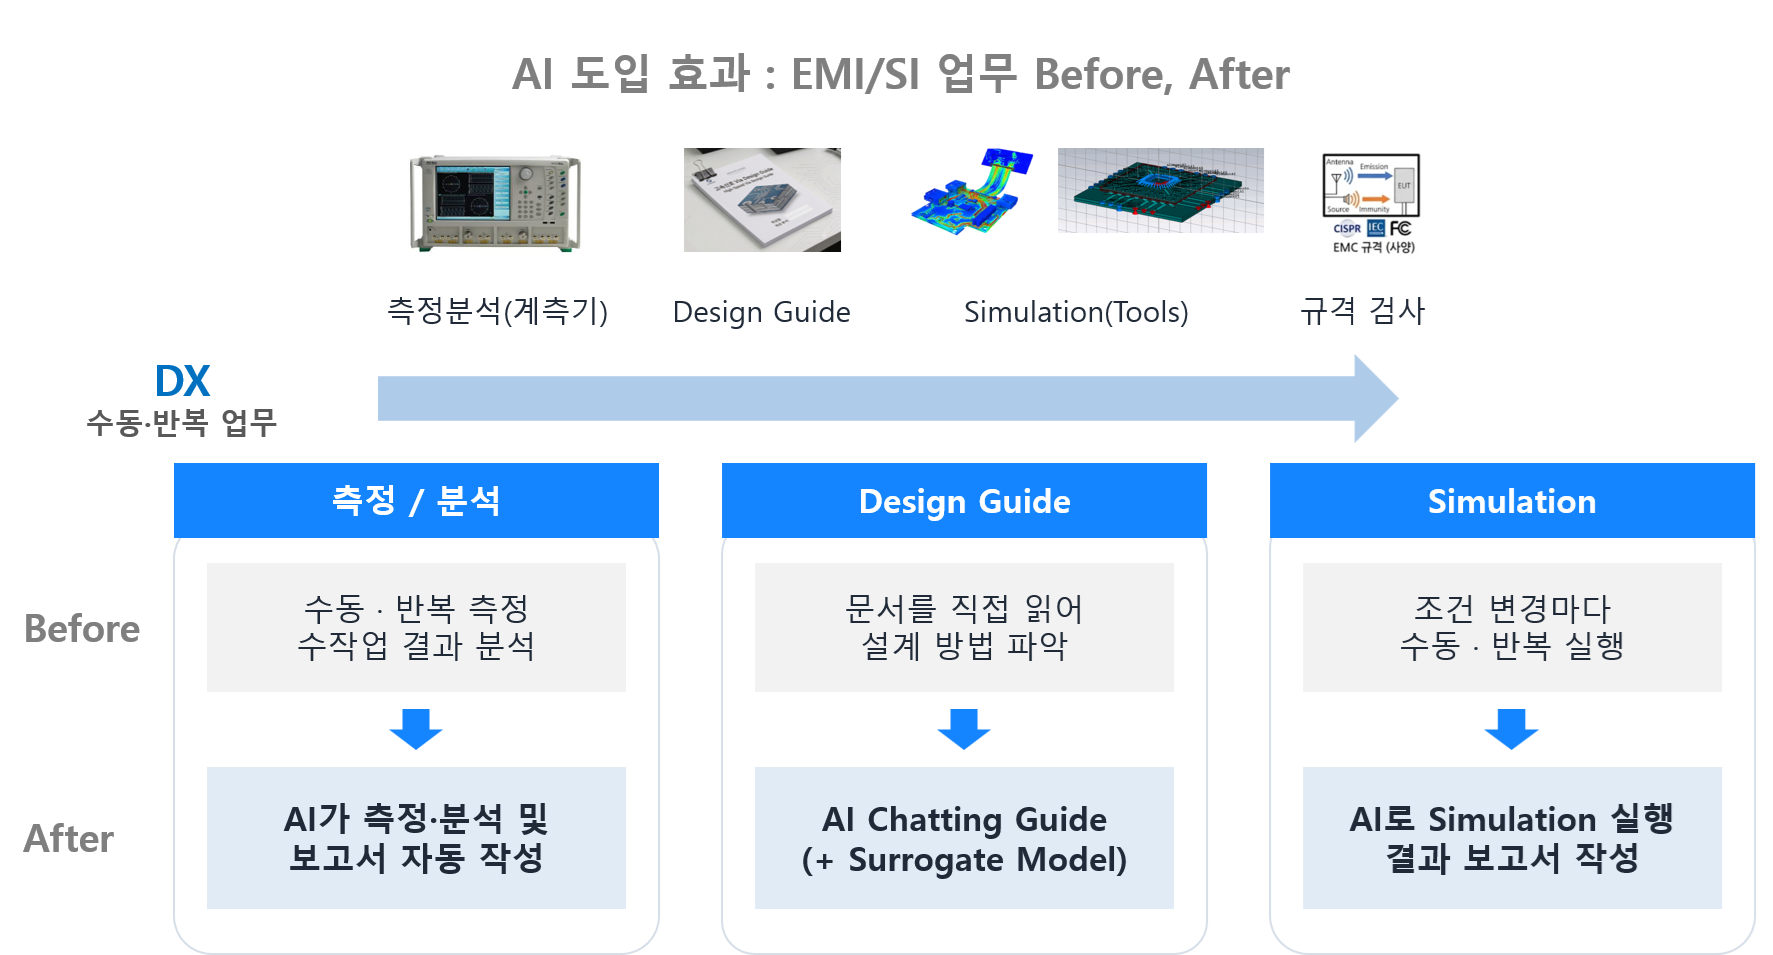
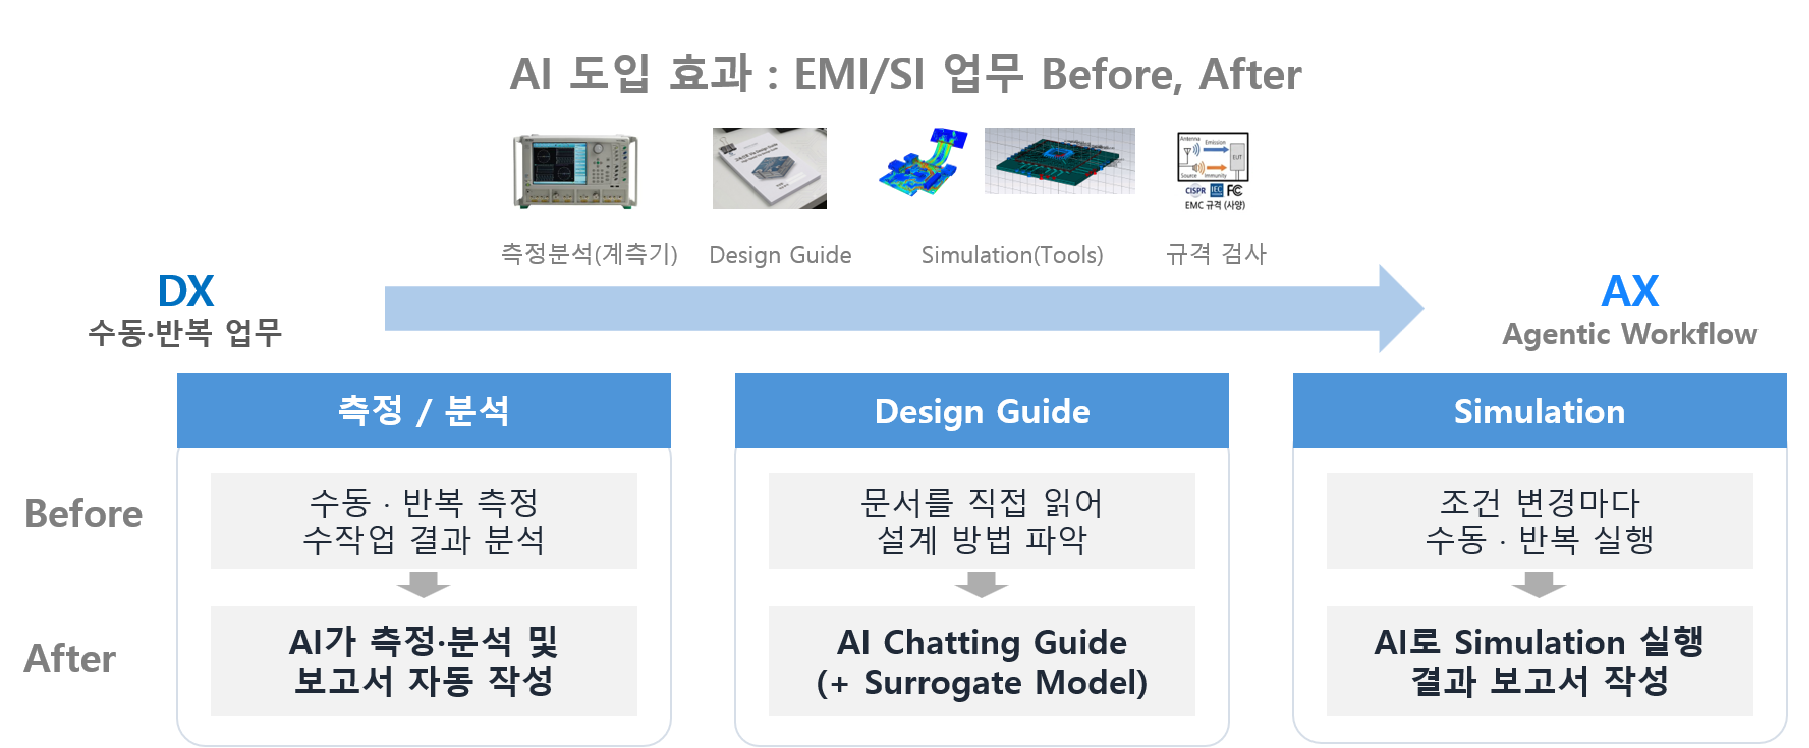
feat: update HomeHero component layout and reintroduce message for improved clarity

diff --git a/src/components/home/home-hero.tsx b/src/components/home/home-hero.tsx
@@ -11,11 +11,6 @@ export function HomeHero() {
             </span>
             <span className="block">솔루션 개발, 자문 및 교육</span>
           </h1>
-          <div className="mx-auto mb-10 max-w-6xl text-center">
-            <p className="text-xl font-black tracking-normal text-slate-900 sm:text-2xl lg:text-4xl">
-              AI-Connected · Integrated · Agentic EMI/SI Engineering
-            </p>
-          </div>
           <Image
             src="/이엠엑스아이_AI도입효과1.png"
             alt="AI 기반 EMI/SI Engineering 업무 전환 전후 요약"
@@ -25,6 +20,11 @@ export function HomeHero() {
             priority
             sizes="(min-width: 1280px) 70vw, (min-width: 1024px) 76vw, 94vw"
           />
+          <div className="mx-auto mt-14 max-w-6xl text-center">
+            <p className="text-xl font-black tracking-normal text-slate-900 sm:text-2xl lg:text-4xl">
+              AI-Connected · Integrated · Agentic EMI/SI Engineering
+            </p>
+          </div>
           <div className="mx-auto mt-4 max-w-6xl px-4 py-2 text-base font-semibold leading-relaxed text-slate-600 sm:text-lg lg:text-xl">
             <div className="hero-message-rotator relative grid min-h-[4.25rem] place-items-center overflow-hidden sm:min-h-[3rem]">
               <p className="hero-rotating-message text-center">
